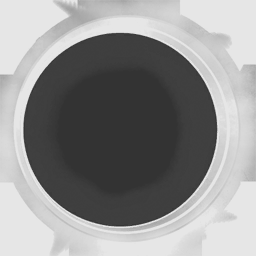
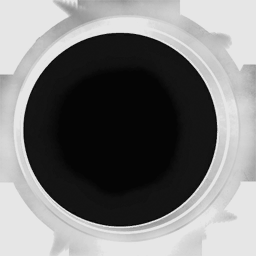
Sniper Rifle: the scope's lens is near a mirror (roughness 0.02 where the back of the scope's alpha is full, not 0.2), as it looked matte; convert_weapon.py takes gloss_shiny for a material (build 1459)

diff --git a/unreal_tournament/tools/asset_conversion/convert_weapon.py b/unreal_tournament/tools/asset_conversion/convert_weapon.py
@@ -17,7 +17,7 @@ REPO = os.path.abspath(os.path.join(os.path.dirname(__file__), '..', '..'))
 # skip_materials: materials (by index) whose faces are left out. A texture 'solid:rrggbb' is a plain color.
 # textures: more tgas to convert next to the unit's own textures, for a material that another script makes.
 # gloss: the materials (by index) whose texture's alpha is where UT's weapon overlay shines (see GLOSS_MATTE): they get a roughness map
-# made from it. roughness is then only for the other materials.
+# made from it. roughness is then only for the other materials. gloss_shiny: { material index = roughness } in place of GLOSS_SHINY.
 WEAPONS = {
     'flak': {
         'psk': 'Weapons/SkeletalMesh/Flak_1st.psk',
@@ -131,6 +131,8 @@ WEAPONS['classic_sniper'] = {
     'locators': ['Dummy01'],
     'roughness': 0.9,
     'gloss': (0, 1),
+    # (the back of the scope is its lens, which looked matte at GLOSS_SHINY: it is near a mirror where its alpha is full)
+    'gloss_shiny': {1: 0.02},
     'unit': 'units/ut/sniper/sniper_rifle',
     'lua': 'scripts/mods/unreal_tournament/sniper/skin_animations.lua',
 }
@@ -255,11 +257,11 @@ variables = {
 GLOSS_MATTE = 0.9
 GLOSS_SHINY = 0.2
 
-def gloss_rows(rows):
+def gloss_rows(rows, shiny=GLOSS_SHINY):
     """The rows of a roughness map (in its red channel, read linearly) from the alpha of a texture's rows."""
     out = []
     for row in rows:
-        values = bytes(round(255 * (GLOSS_MATTE - (GLOSS_MATTE - GLOSS_SHINY) * a / 255)) for a in row[3::4])
+        values = bytes(round(255 * (GLOSS_MATTE - (GLOSS_MATTE - shiny) * a / 255)) for a in row[3::4])
         out.append(b''.join(bytes((v, v, v, 255)) for v in values))
     return out
 
@@ -538,7 +540,7 @@ def main():
         if m in cfg.get('gloss', ()):
             roughness_map = texture + '_roughness'
             w, h, rows = done_textures[texture]
-            write_png('%s/%s.png' % (REPO, roughness_map), w, h, gloss_rows(rows))
+            write_png('%s/%s.png' % (REPO, roughness_map), w, h, gloss_rows(rows, cfg.get('gloss_shiny', {}).get(m, GLOSS_SHINY)))
             open('%s/%s.texture' % (REPO, roughness_map), 'w', newline='\n').write(texture_text(roughness_map, False))
         open('%s/%s/%s_m%d.material' % (REPO, unit_dir, unit_base, m), 'w', newline='\n').write(material_text(kind, texture, opacity, first_person=True, roughness=cfg['roughness'].get(m) if isinstance(cfg.get('roughness'), dict) else cfg.get('roughness'), roughness_map=roughness_map))
 
